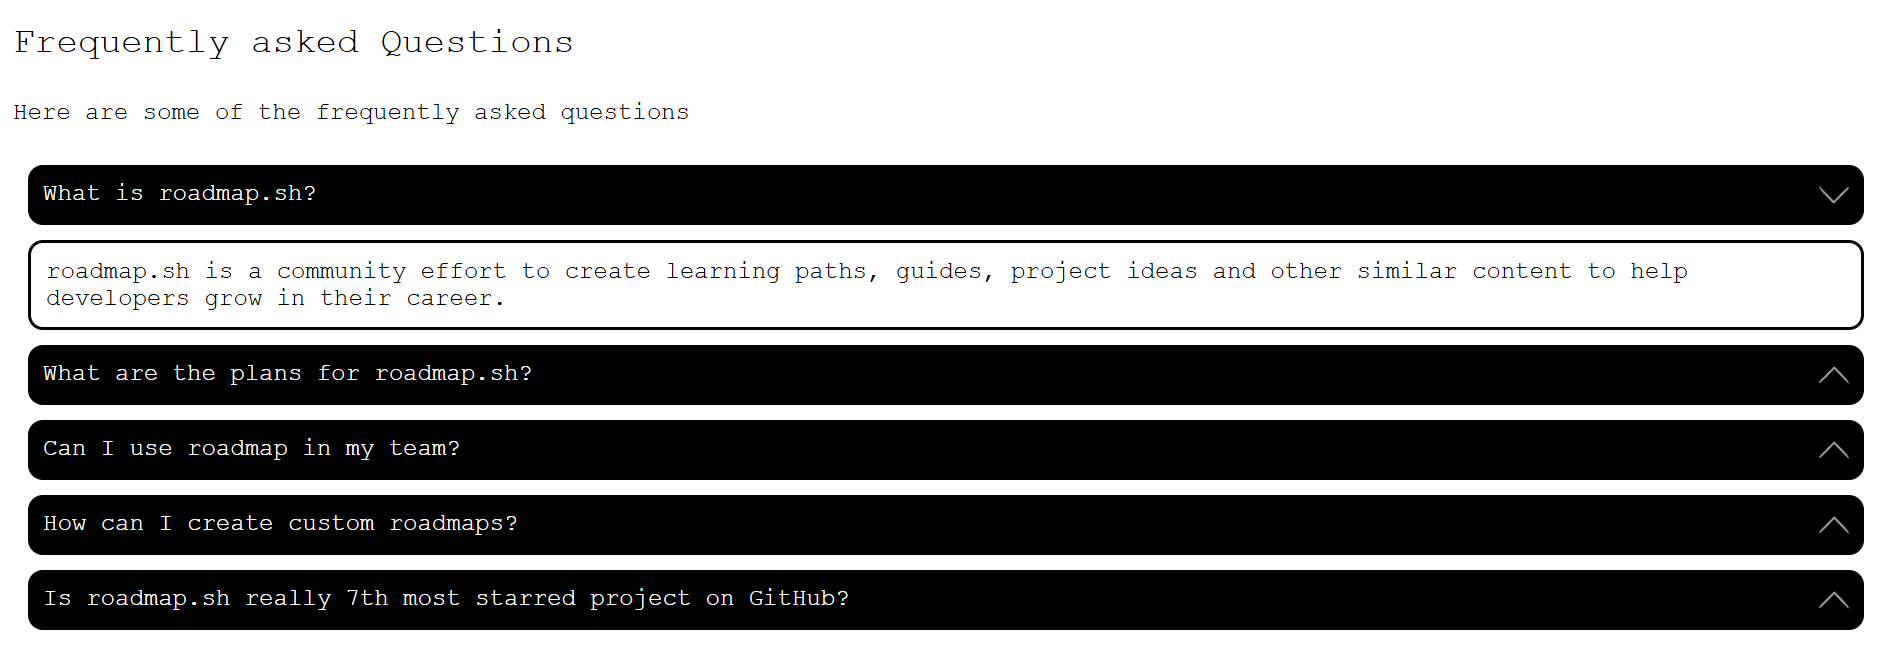
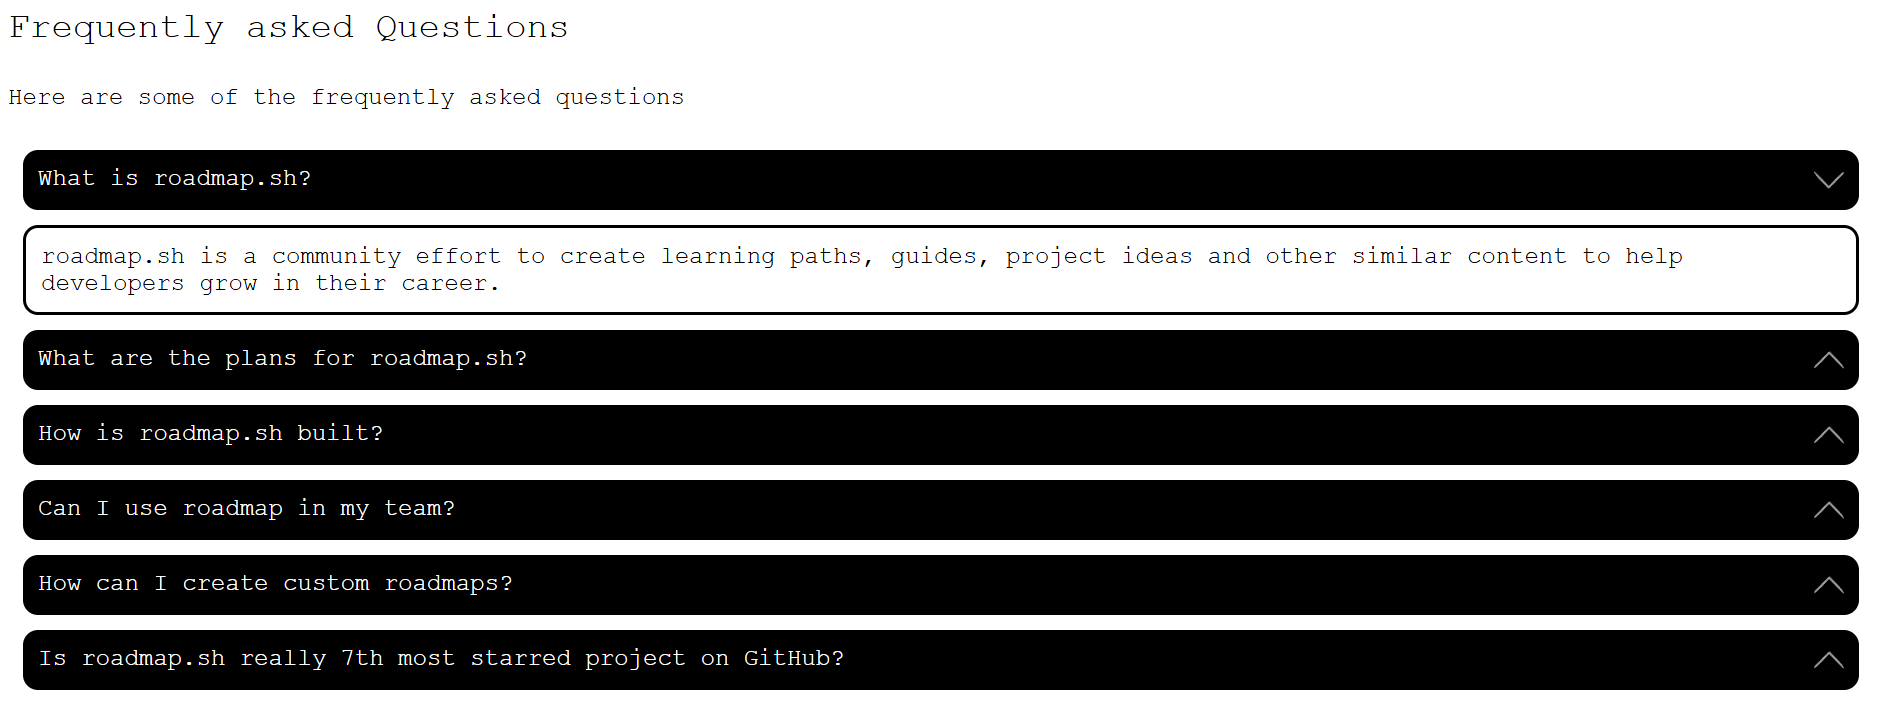
Accordion

diff --git a/frontend/13-accordion/index.html b/frontend/13-accordion/index.html
@@ -20,15 +20,19 @@
             <div class="tab" id="tab-2">roadmap.sh is a community effort to create learning paths, guides 
                 and hopes to create a community of aspiring engineers and problem solvers.
             </div>
-            <div class="question" id="question-3">Can I use roadmap in my team?<img class="" id="arrow-3" src="up-arrow.svg" height="20px" width="20px"></div>
-            <div class="tab" id="tab-3">Yes</div>
-            <div class="question" id="question-4">How can I create custom roadmaps?<img class="" id="arrow-4" src="up-arrow.svg" height="20px" width="20px"></div>
-            <div class="tab" id="tab-4">Custom roadmaps can be created by navigating to
+            <div class="question" id="question-3"><span>How is roadmap.sh built?</span><img class="" id="arrow-3" src="up-arrow.svg" height="20px" width="20px"></div>
+            <div class="tab" id="tab-3">roadmap.sh is built by the community for the community and to 
+                the community by passionate engineers and developers.
+            </div>
+            <div class="question" id="question-4">Can I use roadmap in my team?<img class="" id="arrow-4" src="up-arrow.svg" height="20px" width="20px"></div>
+            <div class="tab" id="tab-4">Yes</div>
+            <div class="question" id="question-5">How can I create custom roadmaps?<img class="" id="arrow-5" src="up-arrow.svg" height="20px" width="20px"></div>
+            <div class="tab" id="tab-5">Custom roadmaps can be created by navigating to
                 the roadmaps section and then clicking cutom roadmap
                 where you can create custom roadmpas with AI.
             </div>
-            <div class="question" id="question-5"><span>Is roadmap.sh really 7th most starred project on GitHub?</span><img class="" id="arrow-5" src="up-arrow.svg" height="20px" width="20px"></div>
-            <div class="tab" id="tab-5">Yes</div>
+            <div class="question" id="question-6"><span>Is roadmap.sh really 7th most starred project on GitHub?</span><img class="" id="arrow-6" src="up-arrow.svg" height="20px" width="20px"></div>
+            <div class="tab" id="tab-6">Yes</div>
         </div>
     </div>
     <script src="script.js"></script>

diff --git a/frontend/13-accordion/script.js b/frontend/13-accordion/script.js
@@ -13,6 +13,9 @@ const arrow4 = document.querySelector('#arrow-4')
 const q5 = document.querySelector('#question-5')
 const tab5 = document.querySelector('#tab-5')
 const arrow5 = document.querySelector('#arrow-5')
+const q6 = document.querySelector('#question-6')
+const tab6 = document.querySelector('#tab-6')
+const arrow6 = document.querySelector('#arrow-6')
 
 
 q1.addEventListener('click',(e)=>{
@@ -62,5 +65,15 @@ q5.addEventListener('click',(e)=>{
     }else{
         tab5.className='active-tab'
         arrow5.className='rotated'
+    }
+})
+
+q6.addEventListener('click',(e)=>{
+    if(tab6.className == 'active-tab'){
+        tab6.className = 'tab'
+        arrow6.className=''
+    }else{
+        tab6.className='active-tab'
+        arrow6.className='rotated'
     }
 })

diff --git a/frontend/13-accordion/styles.css b/frontend/13-accordion/styles.css
@@ -1,5 +1,6 @@
 body{
     font-family:'Courier New', Courier, monospace;
+    font-weight:500;
     padding:10px;
 }
 
